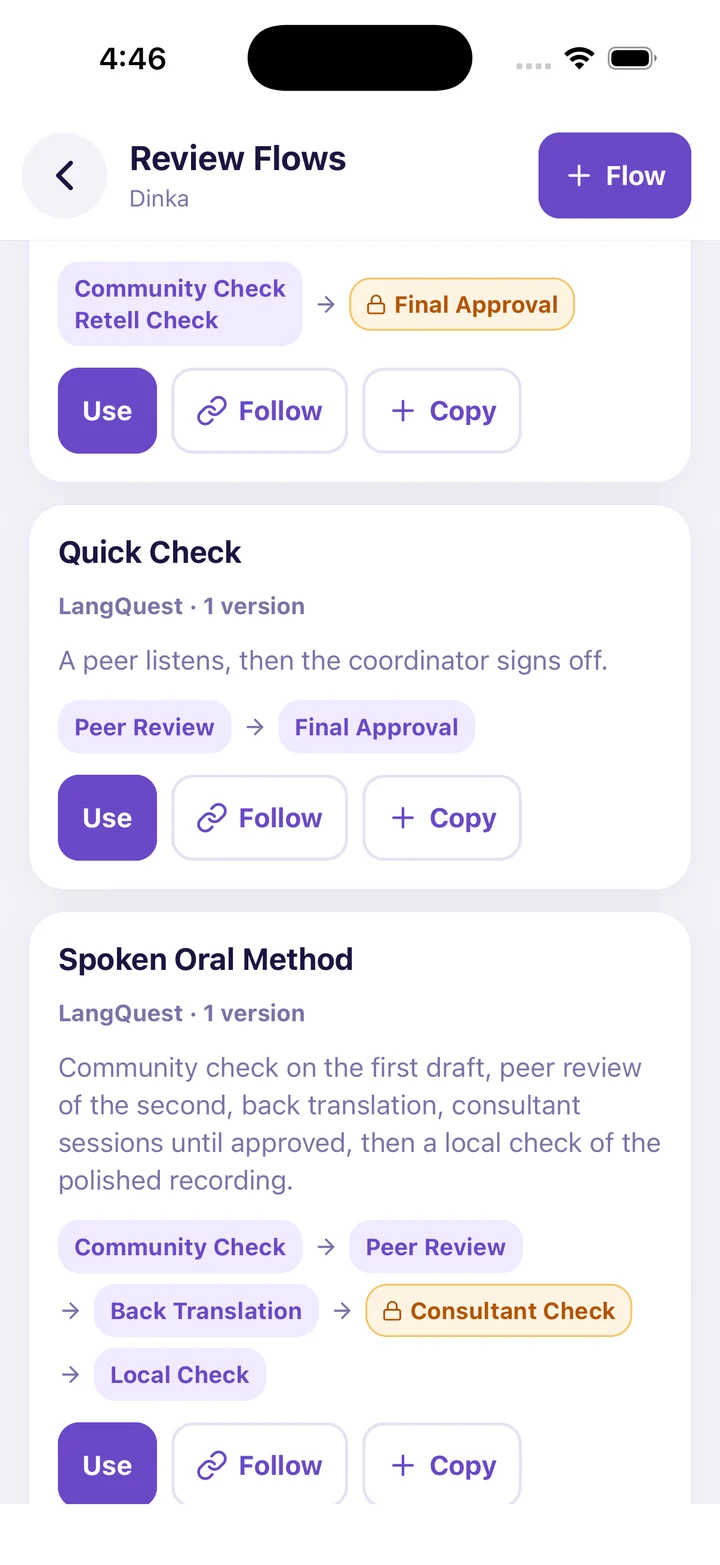
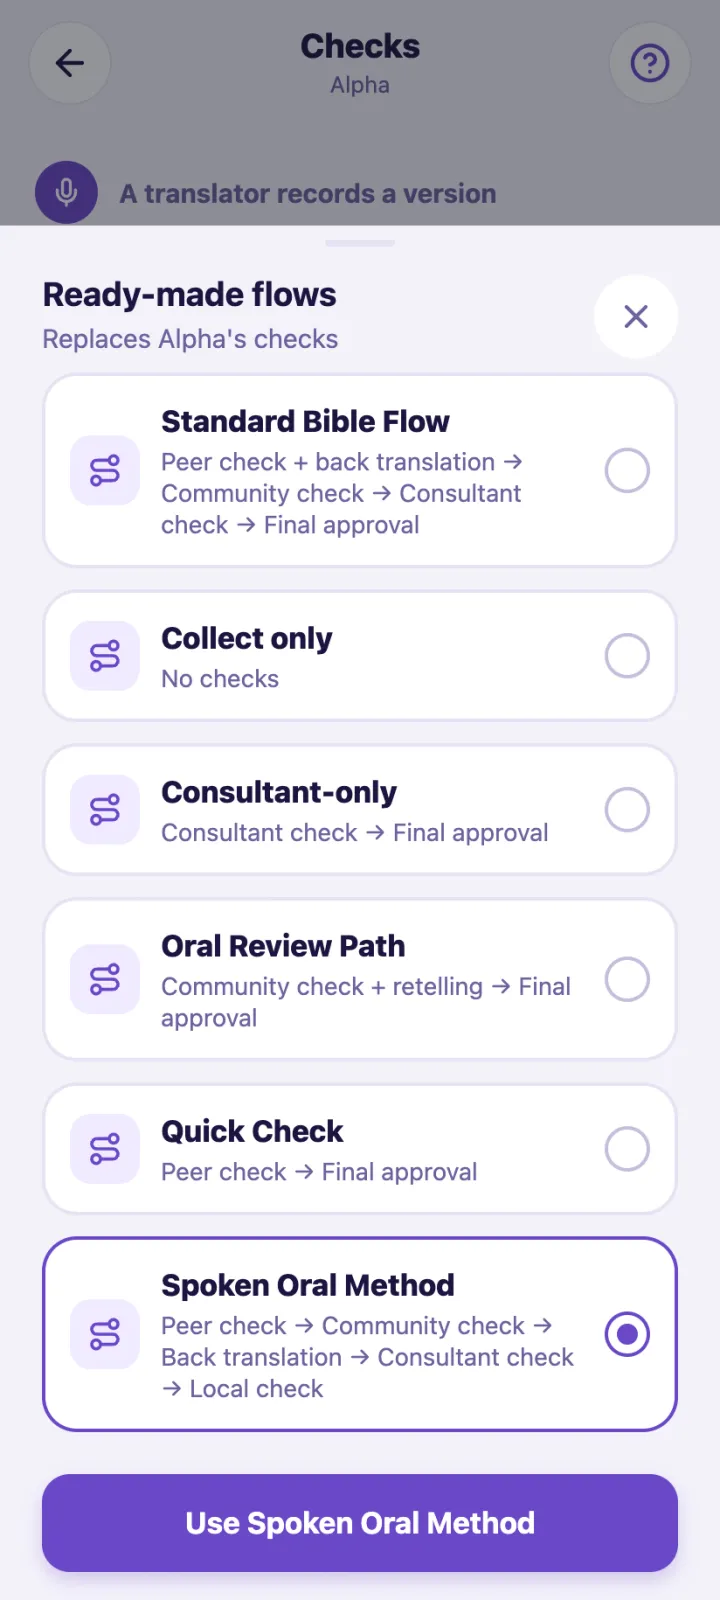
Spoken Oral Method: peer review before the community check
A partner who uses the method lists its checks as peer review, community
review, back translation, consultant check, local check; the preset had the
first two the other way round. The preset (core FLOWS, published by the
library seed as langquest.flow.spoken_oral) now follows their order, and its
description says so.

The library seed takes --only <itemId> (repeatable): just those items and the
documents they need, so a hosted project can take this one new version
without everything else that changed since it was last seeded.

The Singapore how-to page says the new order and shows today's Checks
screens (a language's own list, started from a ready-made flow) instead of
the Review Flows screens it showed before decision 91.

diff --git a/scripts/library-seed.ts b/scripts/library-seed.ts
@@ -4,6 +4,7 @@
  *   npm run library:seed -- --dry-run
  *   npm run library:seed -- [--fia-dir <dir>]... [--hosted]
  *   npm run library:seed -- --sources [--timings <dir>] [--bsb-text <file>]
+ *   npm run library:seed -- --only <itemId>... [--dry-run | --hosted]
  *
  * The official LangQuest organization (`langquest`) hosts the starters:
  * the six standard versifications, Bible and FIA templates, the standard
@@ -120,6 +121,29 @@ interface SeedBuild {
 }
 
 const hashOf = (doc: LibraryDoc) => createHash('sha256').update(canonicalJson(doc)).digest('hex');
+
+/**
+ * Only the items named, with the documents they need (`--only`): a hosted
+ * project takes one changed item without everything else that changed
+ * since it was last seeded.
+ */
+export function onlyItems(build: SeedBuild, itemIds: string[]): SeedBuild {
+  const items = itemIds.map((id) => {
+    const it = build.items.find((i) => i.itemId === id);
+    if (!it) throw new Error(`the library has no item ${id}`);
+    return it;
+  });
+  const byHash = new Map(build.documents.map((d) => [d.hash, d.body]));
+  const needed = new Set<string>();
+  const need = (hash: string) => {
+    if (needed.has(hash)) return;
+    needed.add(hash);
+    const body = byHash.get(hash);
+    for (const dep of body && 'deps' in body ? body.deps : []) need(dep);
+  };
+  for (const it of items) need(it.docHash);
+  return { documents: build.documents.filter((d) => needed.has(d.hash)), items };
+}
 
 const readJson = (path: string): unknown => JSON.parse(readFileSync(path, 'utf8'));
 
@@ -477,17 +501,19 @@ function summary(build: SeedBuild, events: AnyEvent[]): string {
 async function main(argv: string[]) {
   const values = (name: string) => argv.flatMap((a, i) => (a === `--${name}` && argv[i + 1] !== undefined ? [argv[i + 1]!] : []));
   // The demo's example guides go to a hosted project only with --with-examples.
-  const build = buildLibrary({ fiaDirs: values('fia-dir'), examples: !argv.includes('--hosted') || argv.includes('--with-examples') });
+  const all = buildLibrary({ fiaDirs: values('fia-dir'), examples: !argv.includes('--hosted') || argv.includes('--with-examples') });
   if (argv.includes('--sources')) {
-    const versifications = build.items.filter((it) => it.kind === 'versification').map((it) => {
-      const body = build.documents.find((d) => d.hash === it.docHash)!.body as VersificationDoc;
+    const versifications = all.items.filter((it) => it.kind === 'versification').map((it) => {
+      const body = all.documents.find((d) => d.hash === it.docHash)!.body as VersificationDoc;
       return { code: body.code, hash: it.docHash, books: Object.keys(body.maxVerses) };
     });
     const sources = await sourcesFor(versifications, { timingsDir: values('timings')[0], bsbTextPath: values('bsb-text')[0], key: process.env['BIBLE_BRAIN_ACCESS_KEY'] });
-    const have = new Set(build.documents.map((d) => d.hash));
-    build.documents.push(...sources.documents.filter((d) => !have.has(d.hash)));
-    build.items.push(...sources.items);
+    const have = new Set(all.documents.map((d) => d.hash));
+    all.documents.push(...sources.documents.filter((d) => !have.has(d.hash)));
+    all.items.push(...sources.items);
   }
+  const only = values('only');
+  const build = only.length ? onlyItems(all, only) : all;
   const events = seedEvents(build, Date.now());
   console.log(summary(build, events));
   if (argv.includes('--dry-run')) return;

diff --git a/scripts/library-seed.test.ts b/scripts/library-seed.test.ts
@@ -3,7 +3,7 @@ import {
   canonicalJson, FIA_PERICOPES, foldOrg, libraryItemView, referencedDocs, templateUnits, validateEvent,
   type CollectionDoc, type FlowDoc, type MaterialDoc, type TemplateDoc, type VersificationDoc
 } from '@langquest-next/core';
-import { buildLibrary, seedEvents, SEED_ORG } from './library-seed';
+import { buildLibrary, onlyItems, seedEvents, SEED_ORG } from './library-seed';
 
 const build = buildLibrary();
 const doc = (hash: string) => build.documents.find((d) => d.hash === hash)!.body;
@@ -90,6 +90,28 @@ describe('LangQuest library seed', () => {
     const q = doc(item('langquest.questions.consultant_check').docHash) as MaterialDoc;
     expect(q).toMatchObject({ kind: 'questions', reviewKindId: 'consultant', language: 'eng' });
     expect(q.questions!.every((x) => x.required === false)).toBe(true);
+  });
+
+  it('puts peer review before the community check in the Spoken Oral Method', () => {
+    const f = doc(item('langquest.flow.spoken_oral').docHash) as FlowDoc;
+    expect(f.steps.map((s) => s.kindIds)).toEqual([['peer'], ['community'], ['bt'], ['consultant'], ['local']]);
+    expect(f.steps.filter((s) => s.checkpoint).map((s) => s.kindIds)).toEqual([['consultant']]);
+  });
+
+  it('publishes only the items asked for, with the documents they need', () => {
+    const one = onlyItems(build, ['langquest.flow.spoken_oral']);
+    expect(one.items.map((i) => i.itemId)).toEqual(['langquest.flow.spoken_oral']);
+    expect(one.documents.map((d) => d.hash)).toEqual([item('langquest.flow.spoken_oral').docHash]);
+    // A collection needs its guides, and they need their numbering, each before the documents that need it.
+    const fia = onlyItems(build, ['langquest.fia.eng']);
+    const seen = new Set<string>();
+    for (const d of fia.documents) {
+      for (const dep of 'deps' in d.body ? d.body.deps : []) expect(seen.has(dep)).toBe(true);
+      seen.add(d.hash);
+    }
+    expect(seen.has(item('langquest.fia.eng').docHash)).toBe(true);
+    expect(fia.documents.length).toBeLessThan(build.documents.length);
+    expect(() => onlyItems(build, ['langquest.flow.nope'])).toThrow(/langquest\.flow\.nope/);
   });
 
   it('collects the FIA guides per language, and keeps the demo\'s own guides apart from FIA\'s', () => {

diff --git a/apps/mobile/public/singapore-pcrt-2026/how-to.html b/apps/mobile/public/singapore-pcrt-2026/how-to.html
@@ -91,9 +91,9 @@
     <div class="text">
       <p class="eyebrow">Phase 2 · Set up · 4 of 5</p>
       <h2>Decide how passages are checked.</h2>
-      <p class="body">Pick a review flow, or build your own. Here, each passage goes through community check, peer review, back translation, consultant check, and a local check.</p>
+      <p class="body">Start from a ready-made flow, then add, remove or reorder the language's checks. Here, each passage goes through peer review, community check, back translation, consultant check, and a local check.</p>
     </div>
-    <div class="phones tilt"><div class="phone sm"><img data-shot="31-review-flow-list" alt="Review flows to choose from"></div><div class="phone sm"><img data-shot="32-flow-applied" alt="The Spoken Oral Method flow in use"></div></div>
+    <div class="phones tilt"><div class="phone sm"><img data-shot="31-review-flow-list" alt="Ready-made flows to start from"></div><div class="phone sm"><img data-shot="32-flow-applied" alt="A language's checks, started from the Spoken Oral Method"></div></div>
     <div class="phase-strip" data-phase="2"></div>
   </section>
 

diff --git a/packages/core/src/record.ts b/packages/core/src/record.ts
@@ -292,10 +292,10 @@ export const FLOWS: FlowTemplate[] = [
     description: 'No reviews: a passage is done once it is recorded.',
     steps: [] },
   { id: 'spoken_oral', name: 'Spoken Oral Method',
-    description: 'Community check on the first draft, peer review of the second, back translation, consultant sessions until approved, then a local check of the polished recording.',
+    description: 'Peer review of the first draft, community check of the second, back translation, consultant sessions until approved, then a local check of the polished recording.',
     steps: [
-      { stepId: 's1', kindIds: ['community'] },
-      { stepId: 's2', kindIds: ['peer'] },
+      { stepId: 's1', kindIds: ['peer'] },
+      { stepId: 's2', kindIds: ['community'] },
       { stepId: 's3', kindIds: ['bt'] },
       { stepId: 's4', kindIds: ['consultant'], checkpoint: true },
       { stepId: 's5', kindIds: ['local'] }

diff --git a/apps/mobile/public/singapore-pcrt-2026/index.html b/apps/mobile/public/singapore-pcrt-2026/index.html
@@ -228,7 +228,7 @@
   <section id="q-quality" class="step objection" data-x="-168" data-y="4120" data-z="710" data-rotate-y="30.9">
     <p class="qn">05 / 08</p>
     <h2>“How do we check quality?”</h2>
-    <p class="answer substep">You choose the review steps: community check, peer review, back translation, consultant check. Each passage shows what it has cleared.</p>
+    <p class="answer substep">You choose the review steps: peer review, community check, back translation, consultant check. Each passage shows what it has cleared.</p>
     <div class="check" aria-hidden="true">✓</div>
   </section>
 

diff --git a/library/README.md b/library/README.md
@@ -94,6 +94,14 @@ npm run library:seed
 
 Running it again changes nothing: document names and event ids come from
 their content. A changed source publishes a new version of its item.
+`--only <itemId>` (repeatable) publishes just those items and the documents
+they need, so a hosted project can take one change (a new version of the
+Spoken Oral Method, say) without everything else that changed since it was
+last seeded:
+
+```sh
+npm run library:seed -- --only langquest.flow.spoken_oral --dry-run
+```
 
 The sources need the network (even with `--dry-run`) and Faith Comes By
 Hearing's key in the environment; without the key only `bsb-fs` is built.
